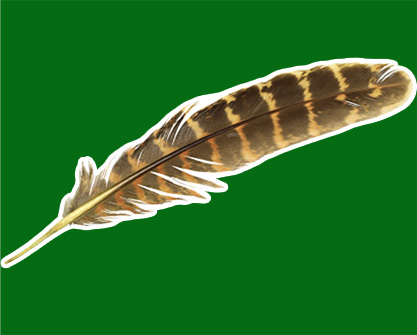
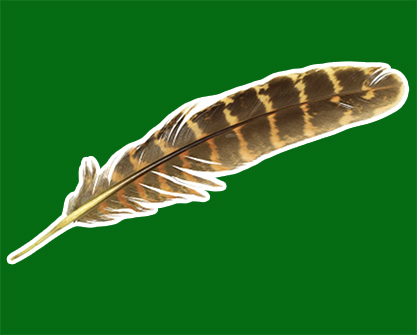
Replace feather button image

Changed region(s): [[0.0, 0.1493, 1.0, 0.806], [0.9976, 0.9851, 1.0, 1.0]]

diff --git a/index.html b/index.html
@@ -42,9 +42,9 @@
                 </div>
             </div>
             <div class="gameplay">
-                <button id="feather"><img src='./resources/featherButton.jpg'></button>
-                <button id="egg"><img src='./resources/eggButton.jpg'></button>
-                <button id="beak"><img src='./resources/beakButton.jpg'></button>
+                <button id="feather"><img src='./resources/featherButton.jpeg'></button>
+                <button id="egg"><img src='./resources/eggButton.jpeg'></button>
+                <button id="beak"><img src='./resources/beakButton.jpeg'></button>
             </div>
         </div>
 

diff --git a/styles.css b/styles.css
@@ -210,10 +210,16 @@ h2 {
 }
 
 .gameplay>button {
-    background-color: #056b13;
+    background-color: #046c13;
     margin-left: 1%;
     margin-right: 1%;
-    width: 12%;
+    width: 13%;
+}
+
+#feather>img,
+#egg>img,
+#beak>img {
+    width: 60%;
 }
 
 
